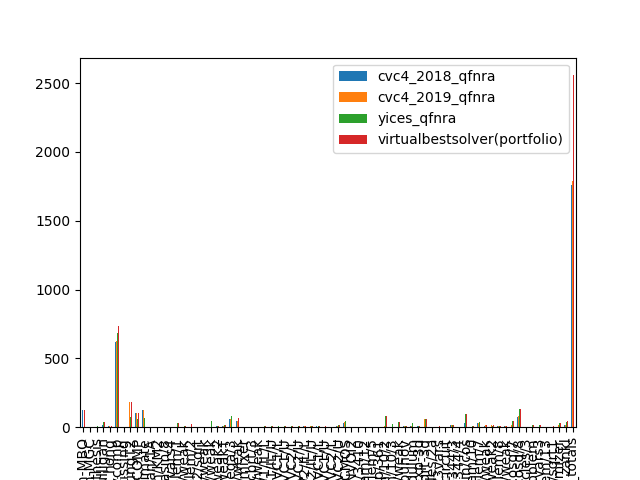
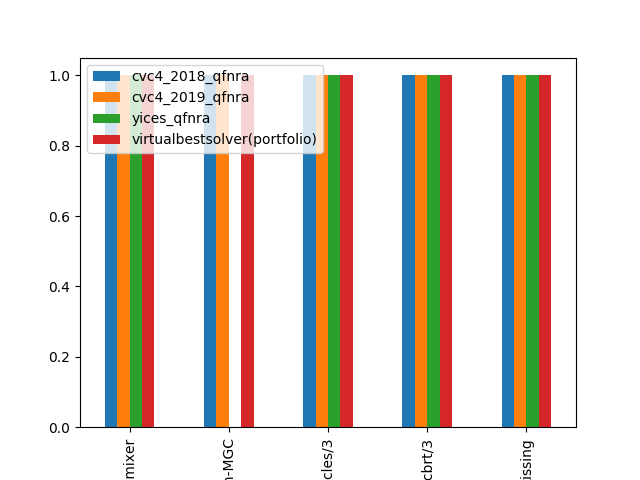
.

diff --git a/PI-Aug-2019-stats/scripts/gen_plots.py b/PI-Aug-2019-stats/scripts/gen_plots.py
@@ -20,7 +20,8 @@ for csv_file in os.listdir(cluster_csv_dir):
     data = ps.read_csv(cluster_csv_dir + "/" + csv_file)
     data = data.applymap(to_int)
     virtual_best_column_name = data.columns[-1]
-    #data.sort_values(data.columns[-1],inplace=True)
+    data.sort_values(data.columns[-1],inplace=True)
+    data = data.head()
     print(data.dtypes)
     p = data.plot(kind='bar', x="DIRECTORY")
     f = p.get_figure()
